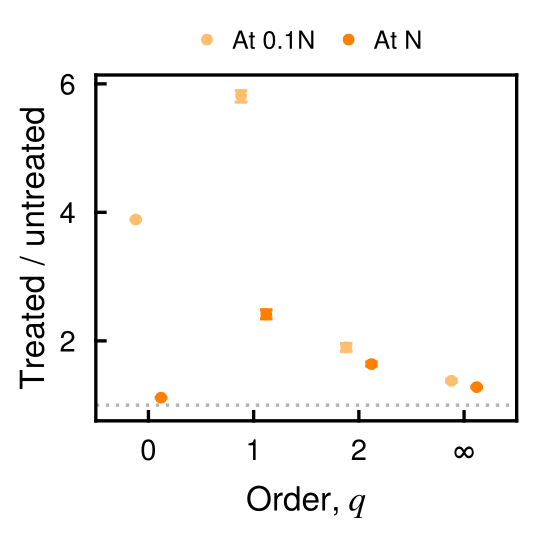
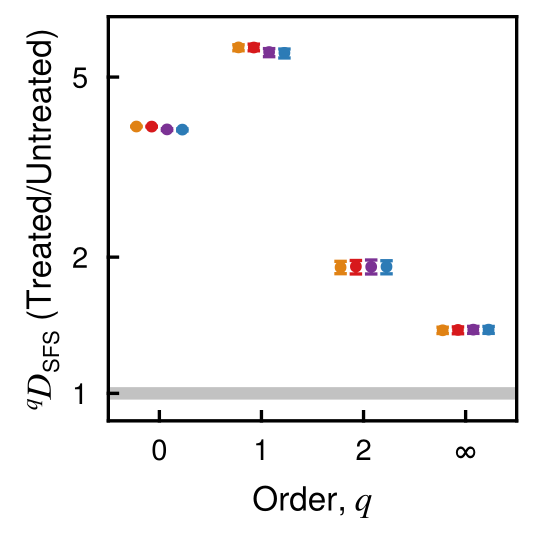
Figure updates

diff --git a/code/02_processing/README.md b/code/02_processing/README.md
@@ -48,7 +48,7 @@ above · `mean_burden, var_burden` ·
 
 | script | output | content |
 |---|---|---|
-| `03_sfs.jl` | `sfs_mean.csv` | `cohort, arm, tag, idx, k, S_mean, S_q25, S_q75, n_tumours`: log-binned SFS (mean per integer k in each bin, fixed bin edges) averaged over tumours |
+| `03_sfs.jl` | `sfs_mean.csv` | `cohort, arm, tag, idx, k, S_mean, S_q25, S_q75, n_tumours`: log-binned SFS (mean per integer k in each bin, fixed bin edges) averaged over tumours; single round: only tumours that respond (reach 0.1 N_det) |
 | `04_examples.jl` | `example_traj.csv`, `example_clones.csv` | example tumour of `full` (closest to the median resistant fraction among tumours 1–10): `N, nS, nR, m` over time for `mtd, hol, mod, met`; sizes of resistant clones over time |
 | `05_tradeoff.jl` | `tradeoff.csv`, `km.csv` | per cohort × arm: `n, n_progressed, n_censored, ttp_km_median, ttp_rmst` (restricted mean up to the follow-up), resistant clones `resD0_*` and `resD2_med`, burden `B_*` at the end of the arm, `resD0_t50_med` at t = 50, paired gain in restricted TTP vs MTD `gain_med, gain_lo, gain_hi, gain_p` (Wilcoxon); Kaplan–Meier curves. Block 02 is checked against block 01 (identical tumours must give identical outcomes) |
 | `06_trial.jl` | `trial.csv`, `trial_cor.csv`, `trial_policy.csv`, `trial_km.csv` | per patient: parameters, restricted TTP / event / dose per arm, `benefit_hol`, `benefit_mod`, diversity at detection (oracle = entire tree; sample = 1000 cells, f_min 1%). Correlations (Spearman, bootstrap CI): `setting` = within (block 01 `full`, one parameter set), across (trial), partial (trial, controlling for log ν, α, f_K); `time` = detection or early (end of the first full-dose phase); all sample sizes and thresholds. Policies: always MTD / holidays / modulation and "adaptive if statistic below/above threshold", fitted on one half, evaluated on the other |

diff --git a/code/03_figures/README.md b/code/03_figures/README.md
@@ -20,7 +20,7 @@ the test data (making missing test tables first) and checks that all panels are 
 | figure | script | tables (`data/processed/…`) | panels |
 |---|---|---|---|
 | 1 Model and schedules | `fig_1/fig_1.jl` | `01_dynamics/example_traj.csv`, `example_clones.csv` | `schematic.ai/.png` (a–c, copied from BirthDeathMutation_AT.jl), `d` MTD, `e` metronomic, `f` holidays, `g` modulation, `legend` |
-| 2 One treatment round | `fig_2/fig_2.jl` | `01_dynamics/sfs_mean.csv`, `snapshots.csv` | `a` mean SFS untreated/treated at 0.1N and N (neutral), `b`/`c` passenger ᵠD treated/untreated (neutral/weak), `d` resistant ᵠD, `e` largest resistant clone (weak) |
+| 2 One treatment round | `fig_2/fig_2.jl` | `01_dynamics/sfs_mean.csv`, `snapshots.csv` | single round, responders only, cohorts none/weak/partial/full: top row after treatment (0.1N), bottom row after regrowth (N): `a`/`d` mean SFS vs untreated, `b`/`e` passenger ᵠD treated/untreated, `c`/`f` resistant-clone ᵠD treated/untreated, `legend` |
 | 3 Holidays and modulation (neutral) | `fig_3/fig_3.jl` | `01_dynamics/snapshots.csv`, `sfs_mean.csv` | `a` S per cycle, `b` γ̂ per cycle, `c` burden B pre-existing/new under modulation with 2μN ln(1+t), `d` SFS under modulation |
 | 4 Composition under the schedules | `fig_4/fig_4.jl` | `01_dynamics/counts.csv.gz`, `snapshots.csv`, `km.csv` | per cohort (`_full`, `_partial`): `a` resistant clones, `b` pre-existing/new, `c` resistant ²D, `d` resistant fraction, `e` Kaplan–Meier; `legend` |
 | 5 Trade-off | `fig_5/fig_5.jl` | `02_tradeoff/tradeoff.csv`, `03_sensitivity/tradeoff.csv` | `a`/`b` TTP vs resistant clones (full/partial), `c` TTP vs B, `d_hol`/`d_mod` gain vs level by N/K, `e_hol`/`e_mod` by ν, `legend` |
